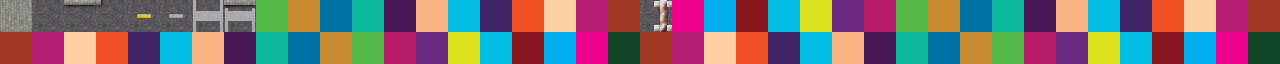
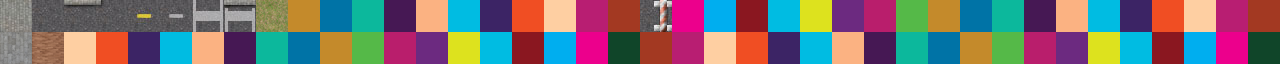
Added new tiles and fixed some road generation bugs

Changed region(s): [[0.1875, 0.0, 0.25, 0.5], [0.0, 0.5, 0.0625, 1.0]]

diff --git a/src/map/Map.java b/src/map/Map.java
@@ -285,38 +285,38 @@ public class Map {
 					setTile(i, j, 200, Direction.UP);	
 				else if (i == start.getX()+1 && j == start.getY()+1){
 					chunkMap[i/16][j/16].add(new MapObject(32, 32, new Point(i*32,j*32), 180, 1000, true, null, null, null, MapObjectType.WALL_CORNER));
-					setTile(i, j, 111, Direction.UP);
+					setTile(i, j, 201, Direction.UP);
 				}
 				else if (i == start.getX()+1 && j == end.getY()-1){
 					chunkMap[i/16][j/16].add(new MapObject(32, 32, new Point(i*32, j*32), 270, 1000, true, null, null, null, MapObjectType.WALL_CORNER));
-					setTile(i, j, 111, Direction.UP);
+					setTile(i, j, 201, Direction.UP);
 				}
 				else if (i == end.getX()-1 && j == start.getY()+1){
 					chunkMap[i/16][j/16].add(new MapObject(32, 32, new Point(i*32, j*32), 90, 1000, true, null, null, null, MapObjectType.WALL_CORNER));
-					setTile(i, j, 111, Direction.UP);
+					setTile(i, j, 201, Direction.UP);
 				}
 				else if (i == end.getX()-1 && j == end.getY()-1){
 					chunkMap[i/16][j/16].add(new MapObject(32, 32, new Point(i*32, j*32), 0, 1000, true, null, null, null, MapObjectType.WALL_CORNER));
-					setTile(i, j, 111, Direction.UP);
+					setTile(i, j, 201, Direction.UP);
 				}
 				else if (i == start.getX()+1){
 					chunkMap[i/16][j/16].add(new MapObject(32, 32, new Point(i*32, j*32), 270, 1000, true, null, null, null, MapObjectType.WALL));
-					setTile(i, j, 111, Direction.UP);
+					setTile(i, j, 201, Direction.UP);
 				}
 				else if (j == start.getY()+1){
 					chunkMap[i/16][j/16].add(new MapObject(32, 32, new Point(i*32, j*32), 0, 1000, true, null, null, null, MapObjectType.WALL));
-					setTile(i, j, 111, Direction.UP);
+					setTile(i, j, 201, Direction.UP);
 				}
 				else if (i == end.getX()-1){
 					chunkMap[i/16][j/16].add(new MapObject(32, 32, new Point(i*32, j*32), 90, 1000, true, null, null, null, MapObjectType.WALL));
-					setTile(i, j, 111, Direction.UP);
+					setTile(i, j, 201, Direction.UP);
 				}
 				else if (j == end.getY()-1){
 					chunkMap[i/16][j/16].add(new MapObject(32, 32, new Point(i*32, j*32), 180, 1000, true, null, null, null, MapObjectType.WALL));
-					setTile(i, j, 111, Direction.UP);
+					setTile(i, j, 201, Direction.UP);
 				}
 				else
-					setTile(i, j, 111, Direction.UP);
+					setTile(i, j, 201, Direction.UP);
 			}
 		}
 	}
@@ -384,7 +384,7 @@ public class Map {
 	 * @param x
 	 *            starting x
 	 * @param y
-	 *            staring y
+	 *            starting y
 	 * @param size
 	 *            road size in blocks
 	 */
@@ -438,6 +438,8 @@ public class Map {
 					setTile(tempx, tempy, 102, Direction.LEFT);
 				else if (i == (size + 1) / 2)
 					setTile(tempx, tempy, 104, Direction.RIGHT);
+				else if (size == 13 && (i == (((size+1)/2)+1)/2 || i == (size+1)/2 + (((size+1)/2)+1)/2-1))
+					setTile(tempx, tempy, 105, Direction.RIGHT);
 				else
 					setTile(tempx, tempy, 101, Direction.UP);
 				tempx++;
@@ -485,7 +487,7 @@ public class Map {
 	 * @param x
 	 *            starting x
 	 * @param y
-	 *            staring y
+	 *            starting y
 	 * @param size
 	 *            road size in blocks
 	 */
@@ -539,7 +541,7 @@ public class Map {
 					setTile(tempx, tempy, 102, Direction.DOWN);
 				else if (i == size - 1)
 					setTile(tempx, tempy, 102, Direction.UP);
-				else if (i == y)
+				else if (i == (size+1)/2)
 					setTile(tempx, tempy, 104, Direction.UP);
 				else
 					setTile(tempx, tempy, 101, Direction.UP);
